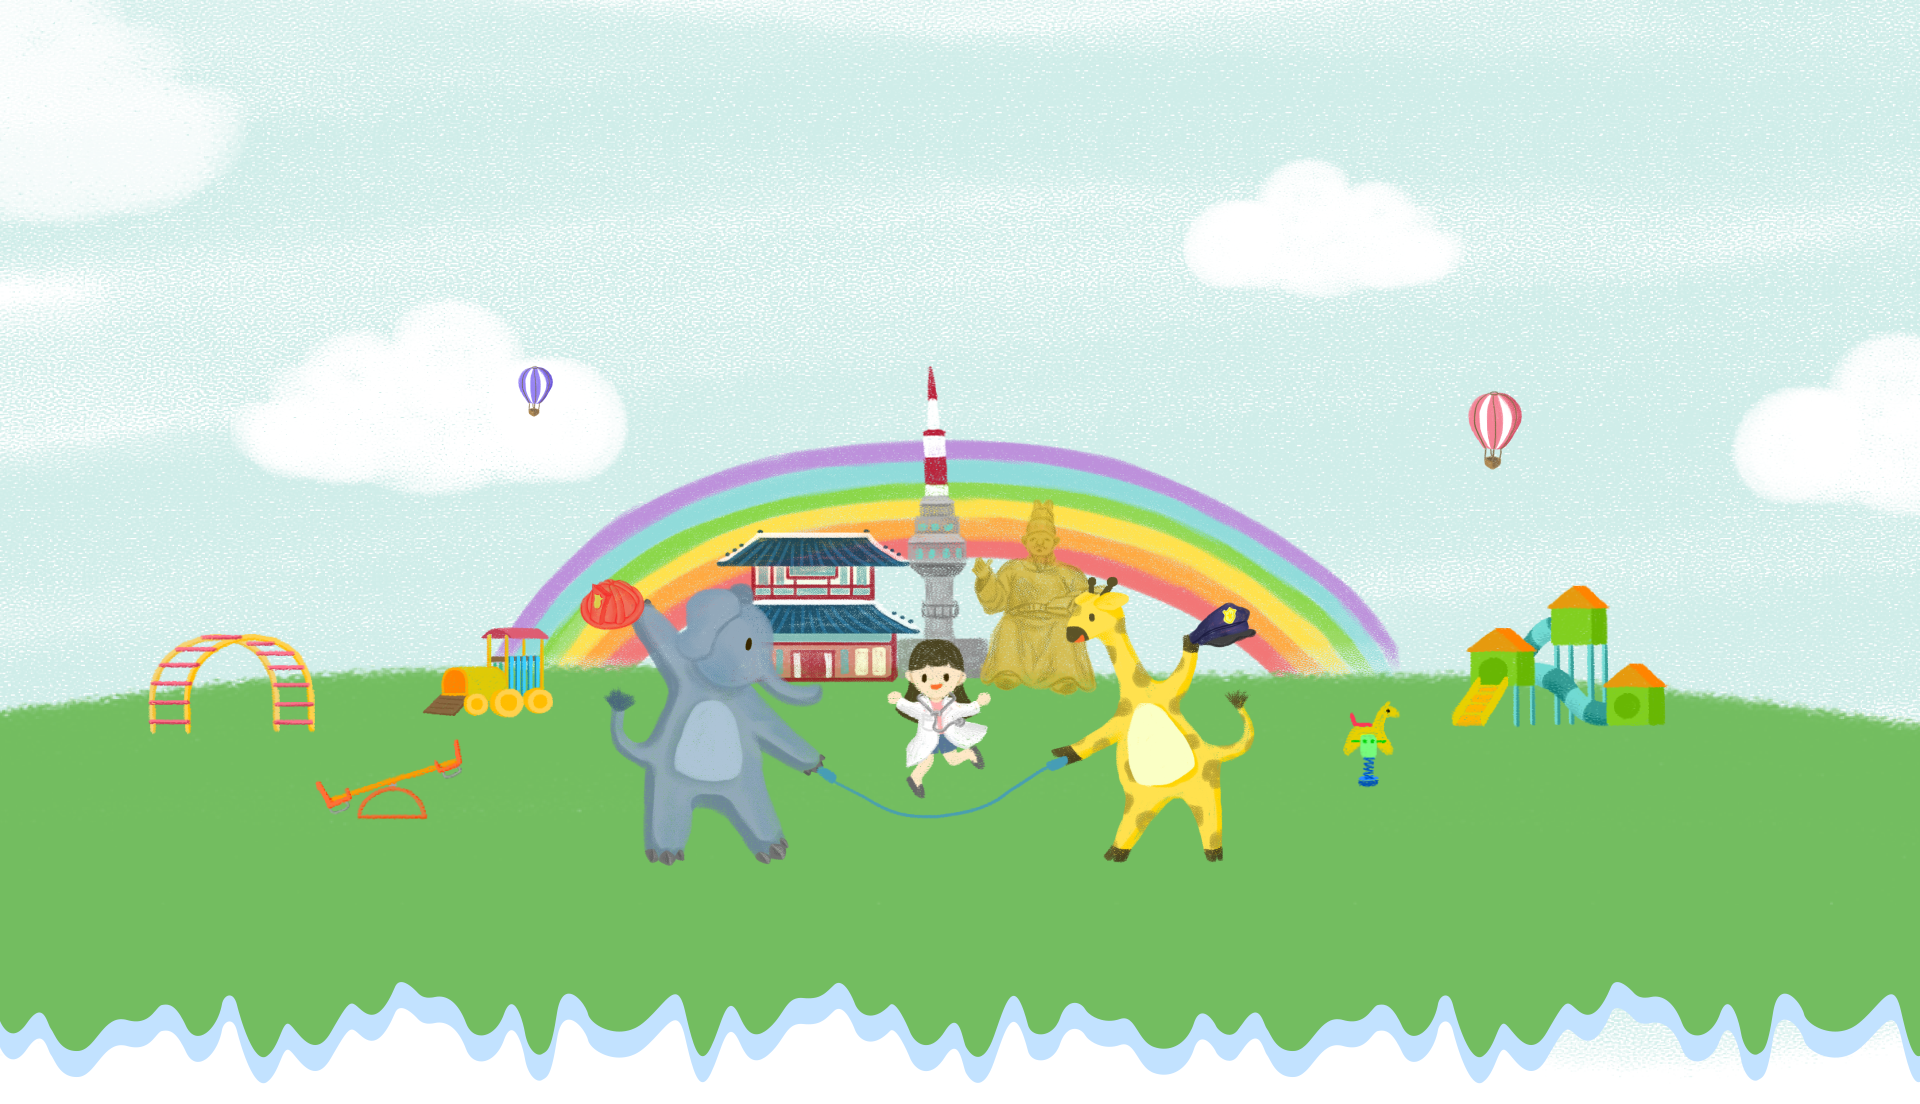
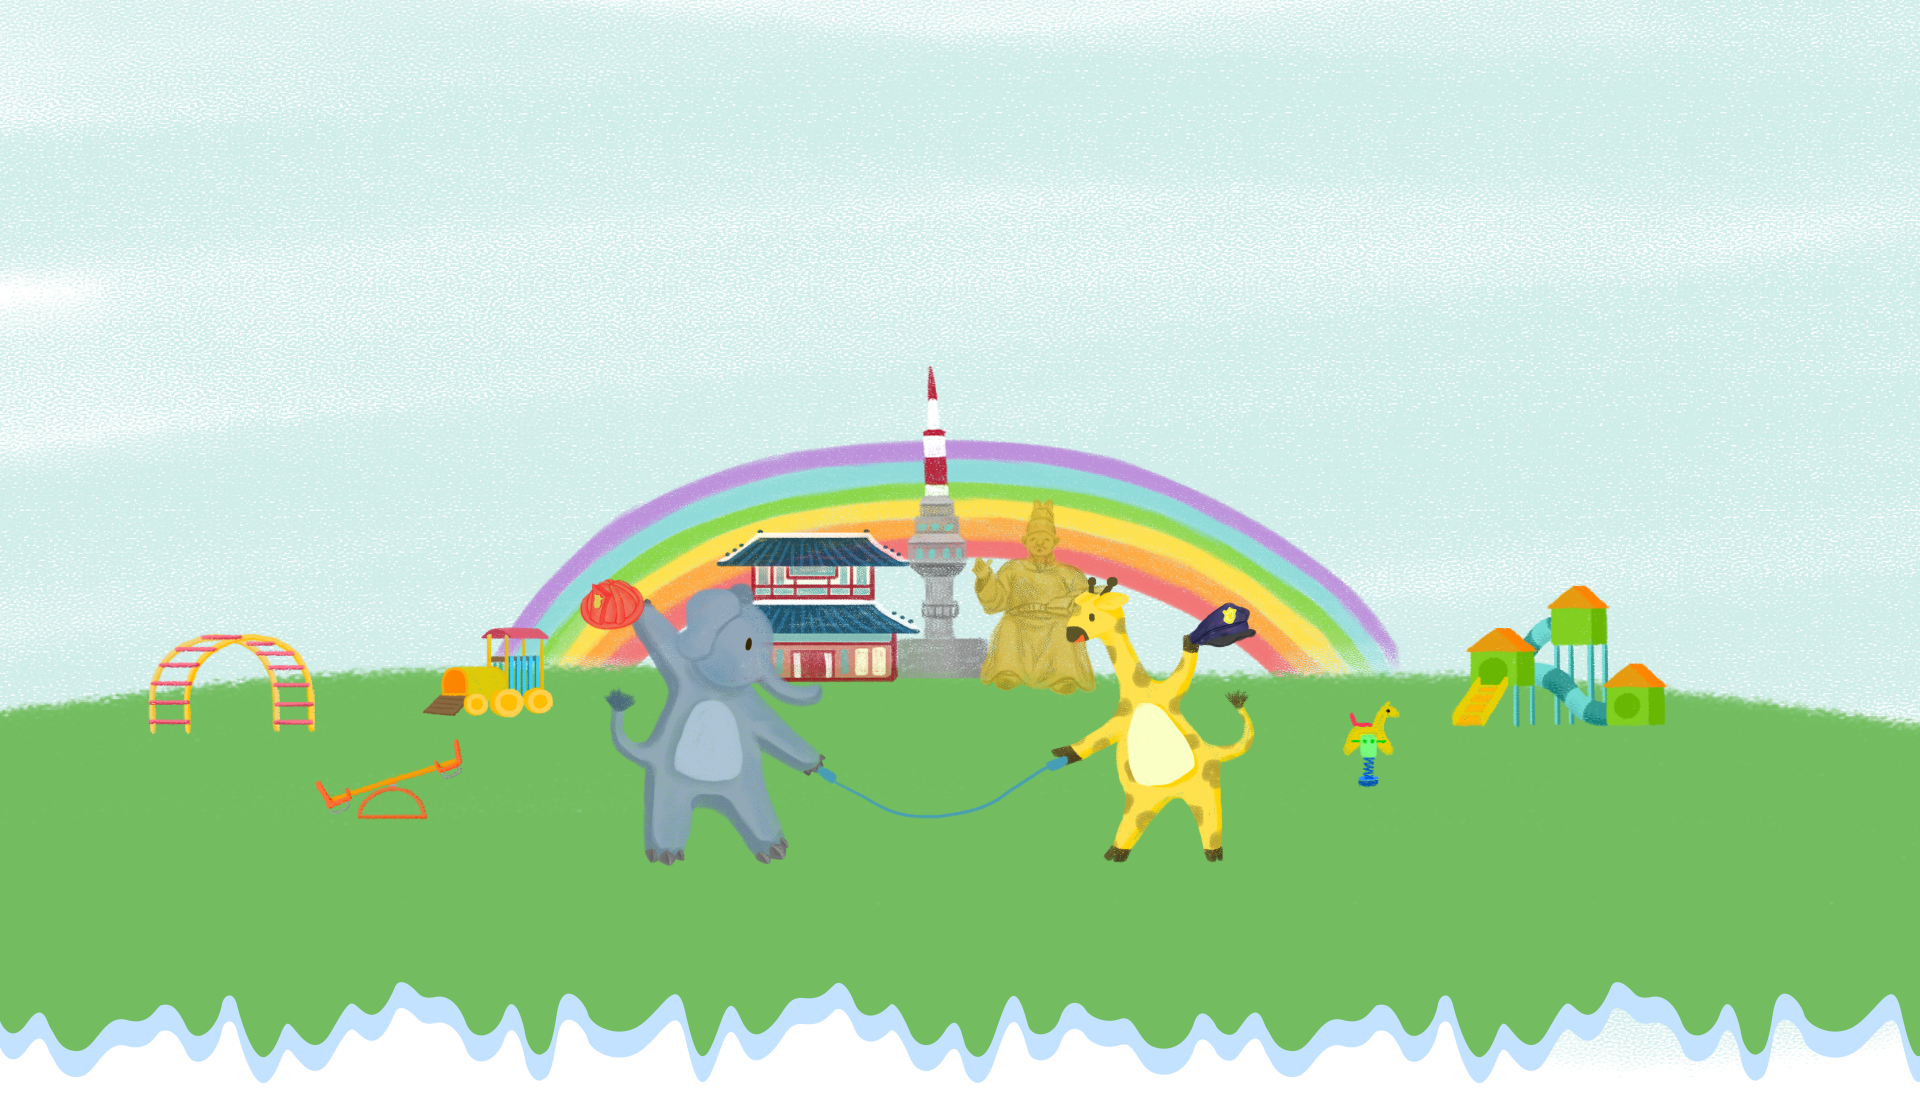
메인 1페이지 애니메이션

diff --git a/docs/index.css b/docs/index.css
@@ -1,9 +1,13 @@
+@import url('https://fonts.googleapis.com/css2?family=Jua&display=swap');
+
 body,
 ul,
 li {
   list-style: none;
   padding: 0;
   margin: 0;
+  font-family: 'Jua';
+  color:#383838;
 }
 
 a {
@@ -12,8 +16,7 @@ a {
 }
 
 .con {
-  min-width: 800px;
-  max-width: 1980px;
+  width: 1920px;
   margin-right: auto;
   margin-left: auto;
 }
@@ -23,8 +26,8 @@ a {
   display: block;
 }
 
+/*--------------  section-1  --------------*/
 .seoul-bg {
-  position: relative;
   top: 0;
   left:0;
   z-index: -1;
@@ -48,11 +51,14 @@ a {
   padding: 10px 0;
 }
 
+.top-bar .logo-box > a {
+  margin-left: 20px;
+}
+
 .button-box > a {
   margin-top: 15px;
   font-size: 14px;
-  font-weight: bold;
-  padding: 3px 22px;
+  padding: 2px 22px;
   border-radius: 15px;
 }
 
@@ -106,6 +112,74 @@ margin-left: 28px;
   align-items: center;
 }
 
-.top-bar > nav ul > li:hover > a {
-  font-weight: bold;
+.top-bar > nav > ul li:hover > a {
+  color:#FFA800;
 }
+
+.cloud {
+  left:-150px;
+  animation:dungdung1 3s none infinite alternate;
+}
+
+.balloon {
+  left:350px;
+  animation:dungdung2 2s none infinite alternate;
+}
+
+@keyframes dungdung1 {
+  0% {
+    top:0;
+  }
+  100% {
+    top:30px;
+  }
+}
+
+@keyframes dungdung2 {
+  0% {
+    top:400px;
+  }
+  100% {
+    top:365px;
+  }
+}
+
+.girl {
+  left:46%;
+  transform:translateX(50%);
+  animation:jump 1s none infinite alternate;
+}
+
+@keyframes jump {
+  0% {
+    transform:scale(1.1);
+    top:54%;
+  }
+  100% {
+    transform:scale(1);
+    top:58%;
+  }
+}
+
+.shadow {
+  left:41%;
+  top:70%;
+  background-color: transparent;
+  border:transparent;
+  box-shadow: 0 0 0 0;
+  filter:none;
+  animation:scale 1s none infinite alternate;
+}
+
+@keyframes scale {
+  0% {
+    transform:scale(2);
+    opacity: 0.5;
+  }
+  100% {
+    transform:scale(1);
+    opacity: 1;
+  }
+}
+
+/*--------------  section-2  --------------*/

diff --git a/docs/index.html b/docs/index.html
@@ -17,10 +17,8 @@
 
 
 
-
+<!--  ----------------section-1----------------  -->
     <section class="section section-1">
-
-
       <div class="top-bar">
         <nav class="h-full">
           <ul class="h-full flex">
@@ -50,9 +48,6 @@
                 <li><a href="#">키자니아 온라인몰</a></li>
               </ul>
             </li>
-
-
-
             <li class="logo-box">
               <a href="index.html">
                 <img src="images/logo.png" alt="logo">
@@ -62,9 +57,6 @@
                 <a class="btn-busan" href="#">BUSAN</a>
               </div>
             </li>
-
-
-
             <li><a class="flex items-center h-full" href="#">파트너십</a>
               <ul>
                 <li><a href="#">파트너십의 가치</a></li>
@@ -94,20 +86,17 @@
         </nav>
       </div>
 
-
-
-
-
-
-      <div class="seoul-bg img-box">
+      <div class="seoul-bg relative">
+        <img class="cloud absolute" src="images/cloud.png" alt="cloud">
+        <img class="balloon absolute" src="images/balloon.png" alt="balloon">
+        <img class="shadow absolute" src="images/shadow.png" alt="shadow">
+        <img class="girl absolute" src="images/girl.png" alt="girl">
         <img src="images/seoul-bg.png" alt="seoul-bg">
       </div>
 
-
-
     </section>
 
-
+<!--  ----------------section-2----------------  -->
 
 
 
